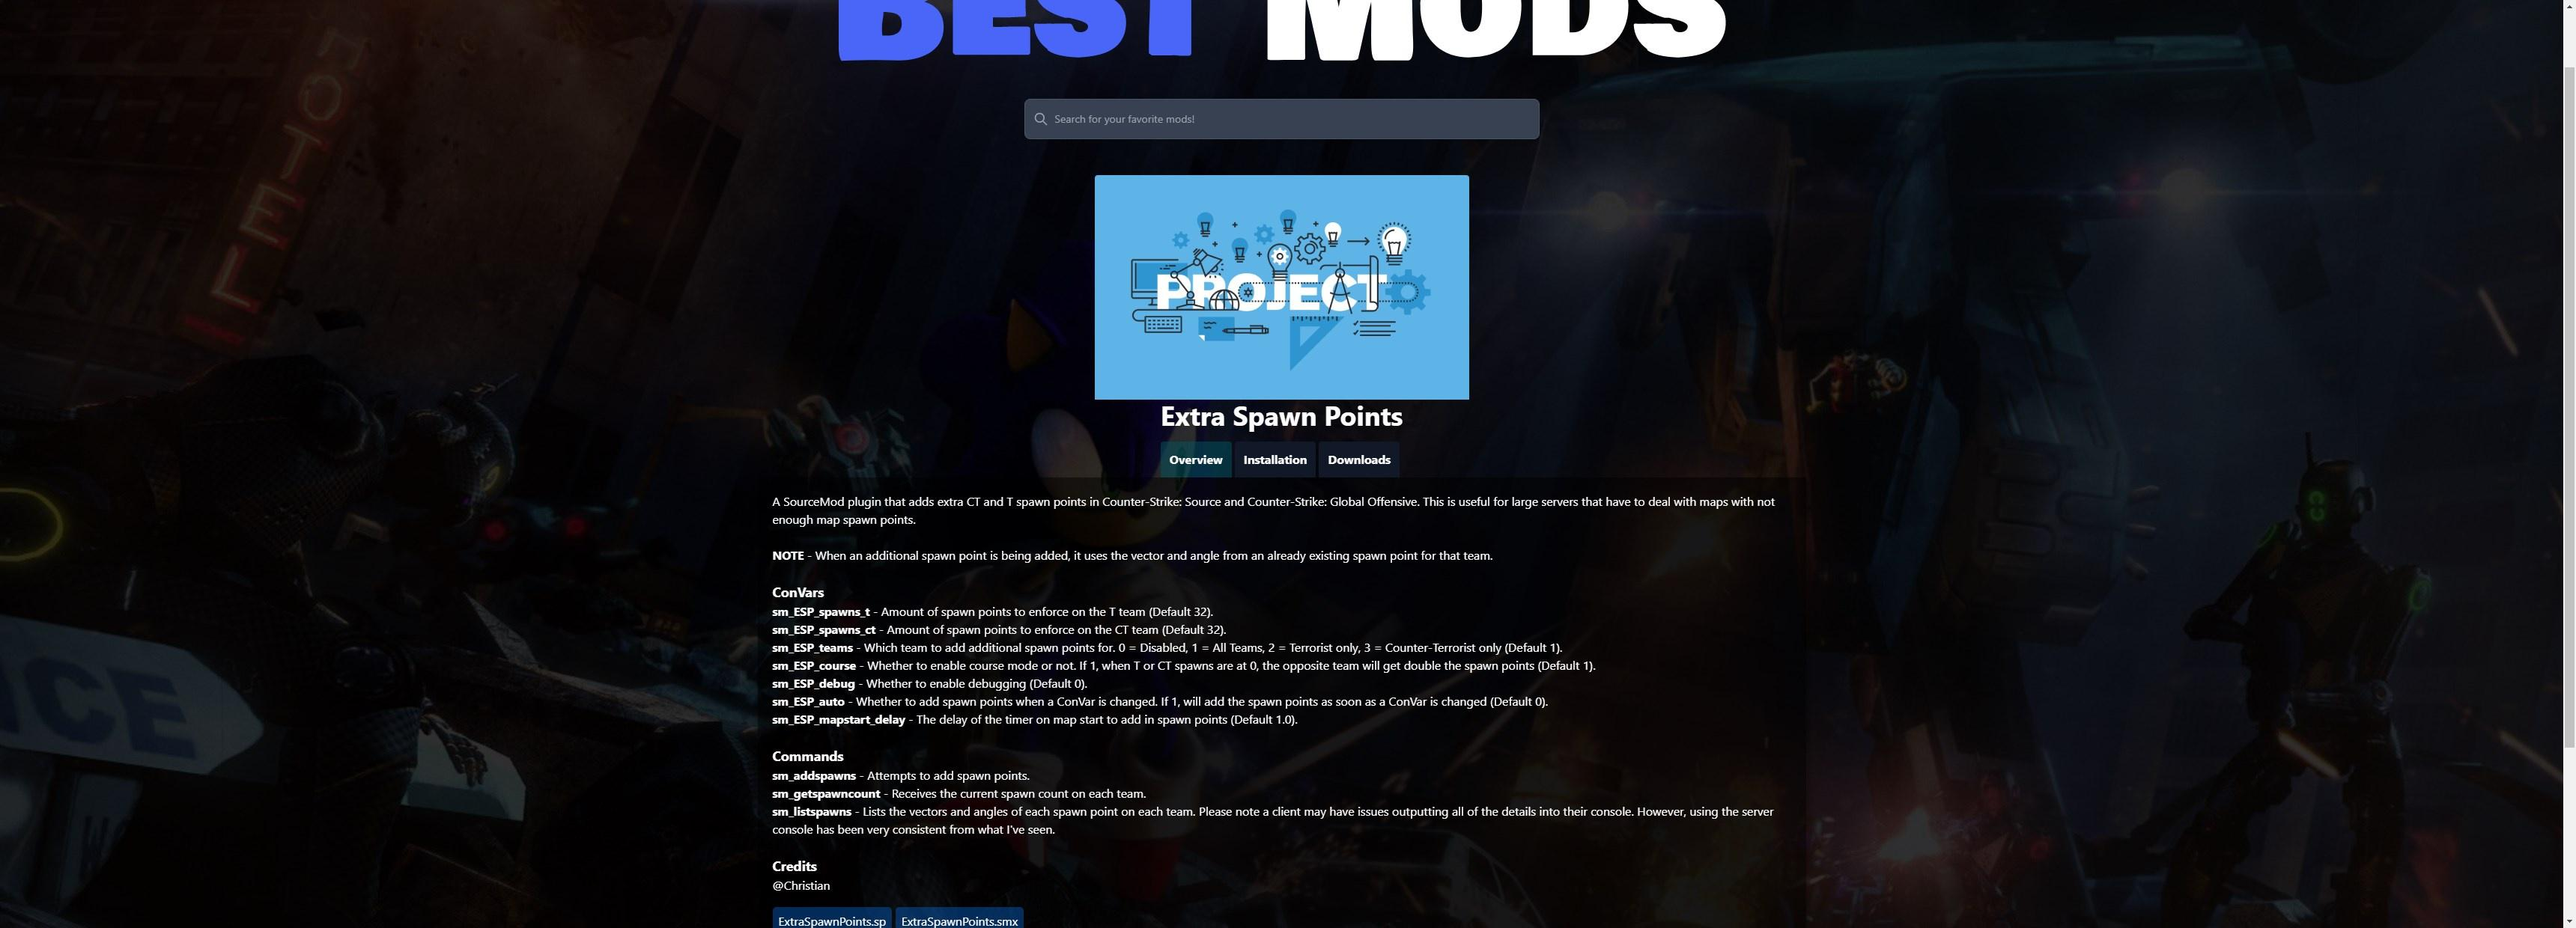
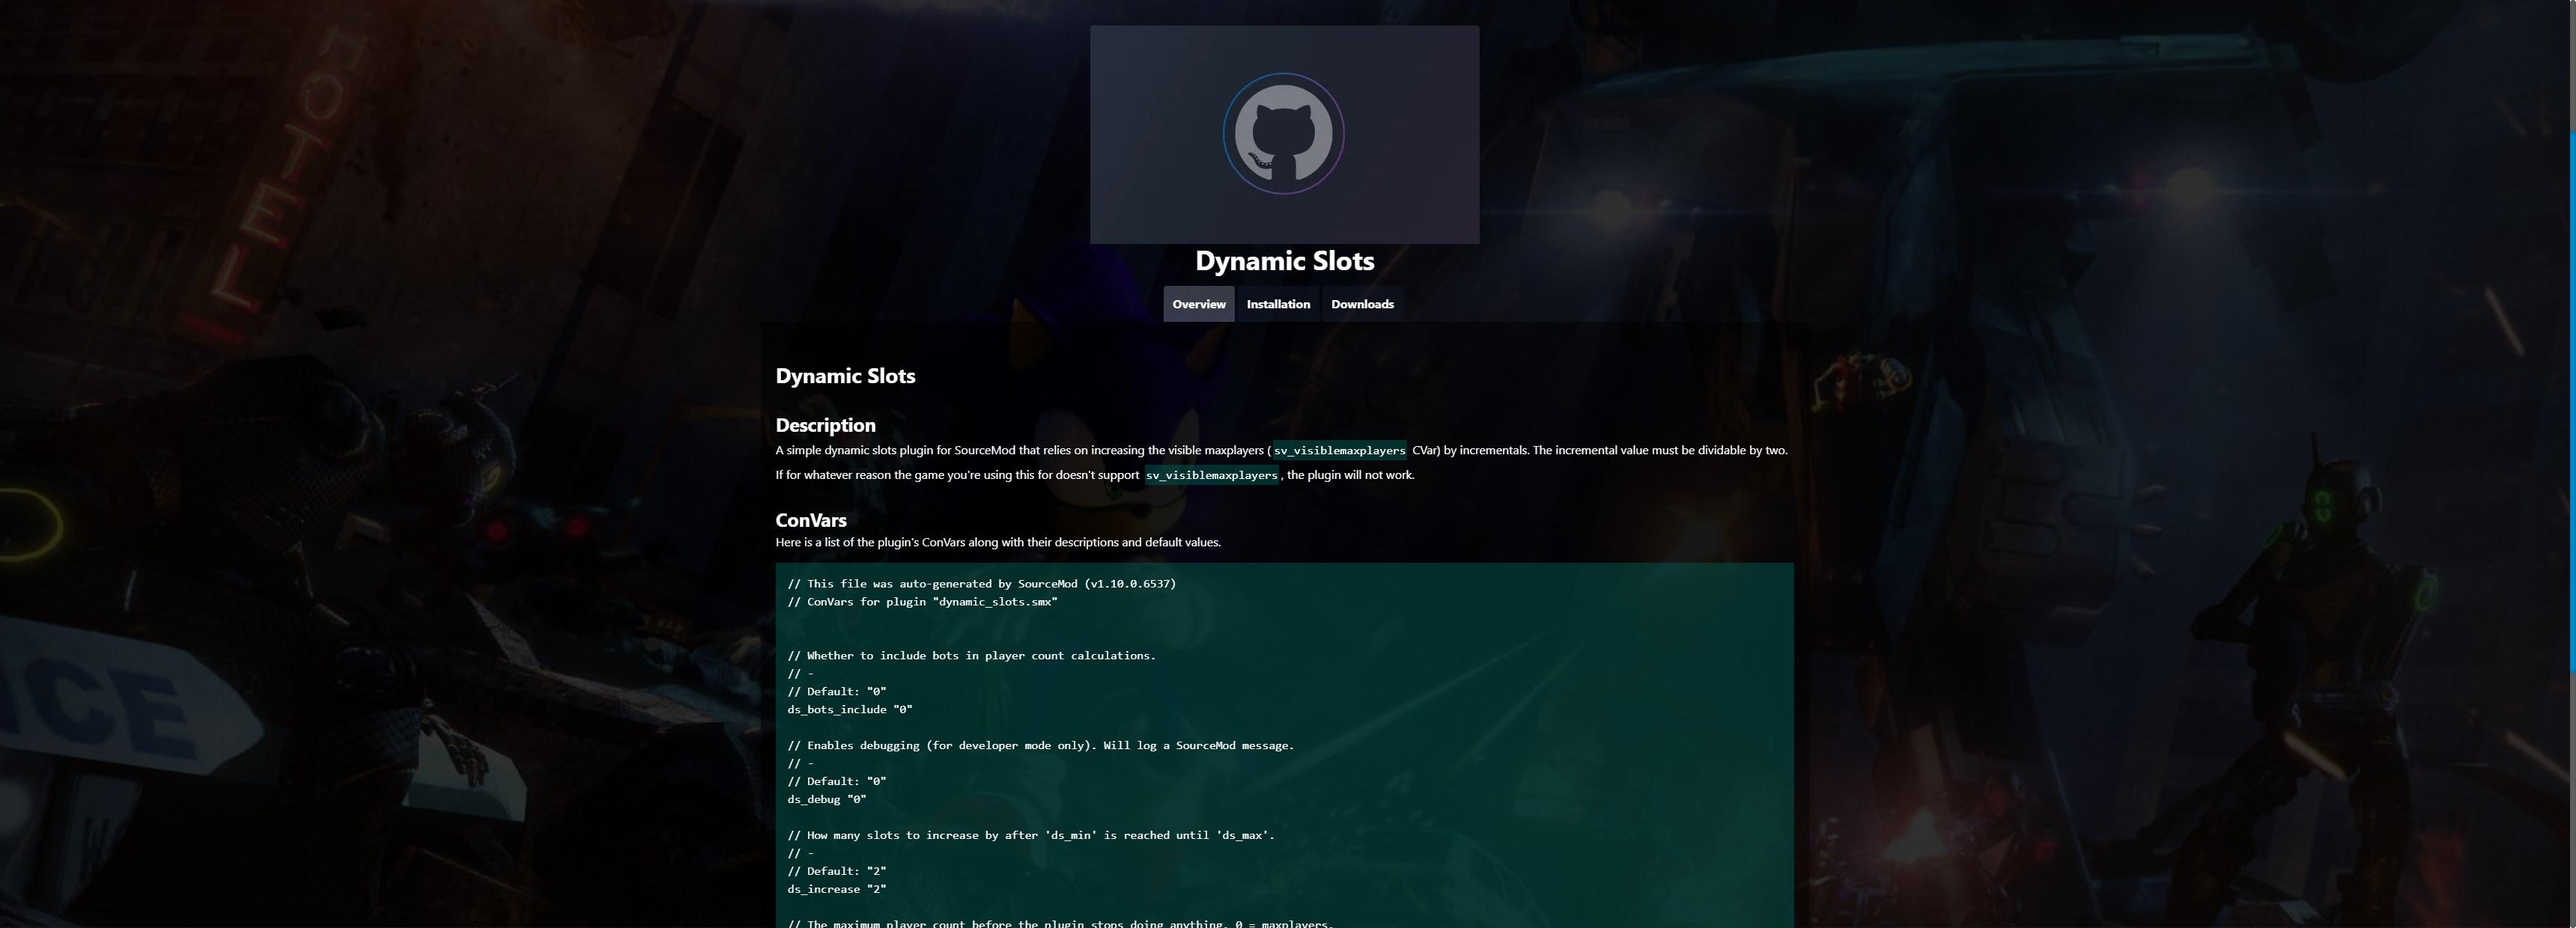
Update images and README.

Changed region(s): [[0.2799, 0.0, 0.7154, 1.0], [0.9953, 0.0, 1.0, 1.0], [0.6843, 0.3984, 0.7154, 0.429]]

diff --git a/README.md b/README.md
@@ -2,8 +2,9 @@
 Browse the best mods in gaming from many sources on the Internet!
 
 <a href="https://bestmods.io/" target="_blank"><img src="https://github.com/BestMods/bestmods/blob/master/preview.jpeg" data-canonical-src="https://github.com/BestMods/bestmods/blob/master/preview.jpeg" /></a>
-<a href="https://bestmods.io/view/csgoesp" target="_blank"><img src="https://github.com/BestMods/bestmods/blob/master/preview2.jpeg" data-canonical-src="https://github.com/BestMods/bestmods/blob/master/preview2.jpeg" /></a>
-<a href="https://bestmods.io/view/csgoesp?view=install" target="_blank"><img src="https://github.com/BestMods/bestmods/blob/master/preview3.jpeg" data-canonical-src="https://github.com/BestMods/bestmods/blob/master/preview3.jpeg" /></a>
+<a href="https://bestmods.io/view/cs-dynamicslots" target="_blank"><img src="https://github.com/BestMods/bestmods/blob/master/preview2.jpeg" data-canonical-src="https://github.com/BestMods/bestmods/blob/master/preview2.jpeg" /></a>
+<a href="https://bestmods.io/view/cs-dynamicslots/install" target="_blank"><img src="https://github.com/BestMods/bestmods/blob/master/preview3.jpeg" data-canonical-src="https://github.com/BestMods/bestmods/blob/master/preview3.jpeg" /></a>
+<a href="https://bestmods.io/view/cs-dynamicslots/downloads" target="_blank"><img src="https://github.com/BestMods/bestmods/blob/master/preview4.jpeg" data-canonical-src="https://github.com/BestMods/bestmods/blob/master/preview4.jpeg" /></a>
 
 [BestMods.io](https://bestmods.io/)
 
